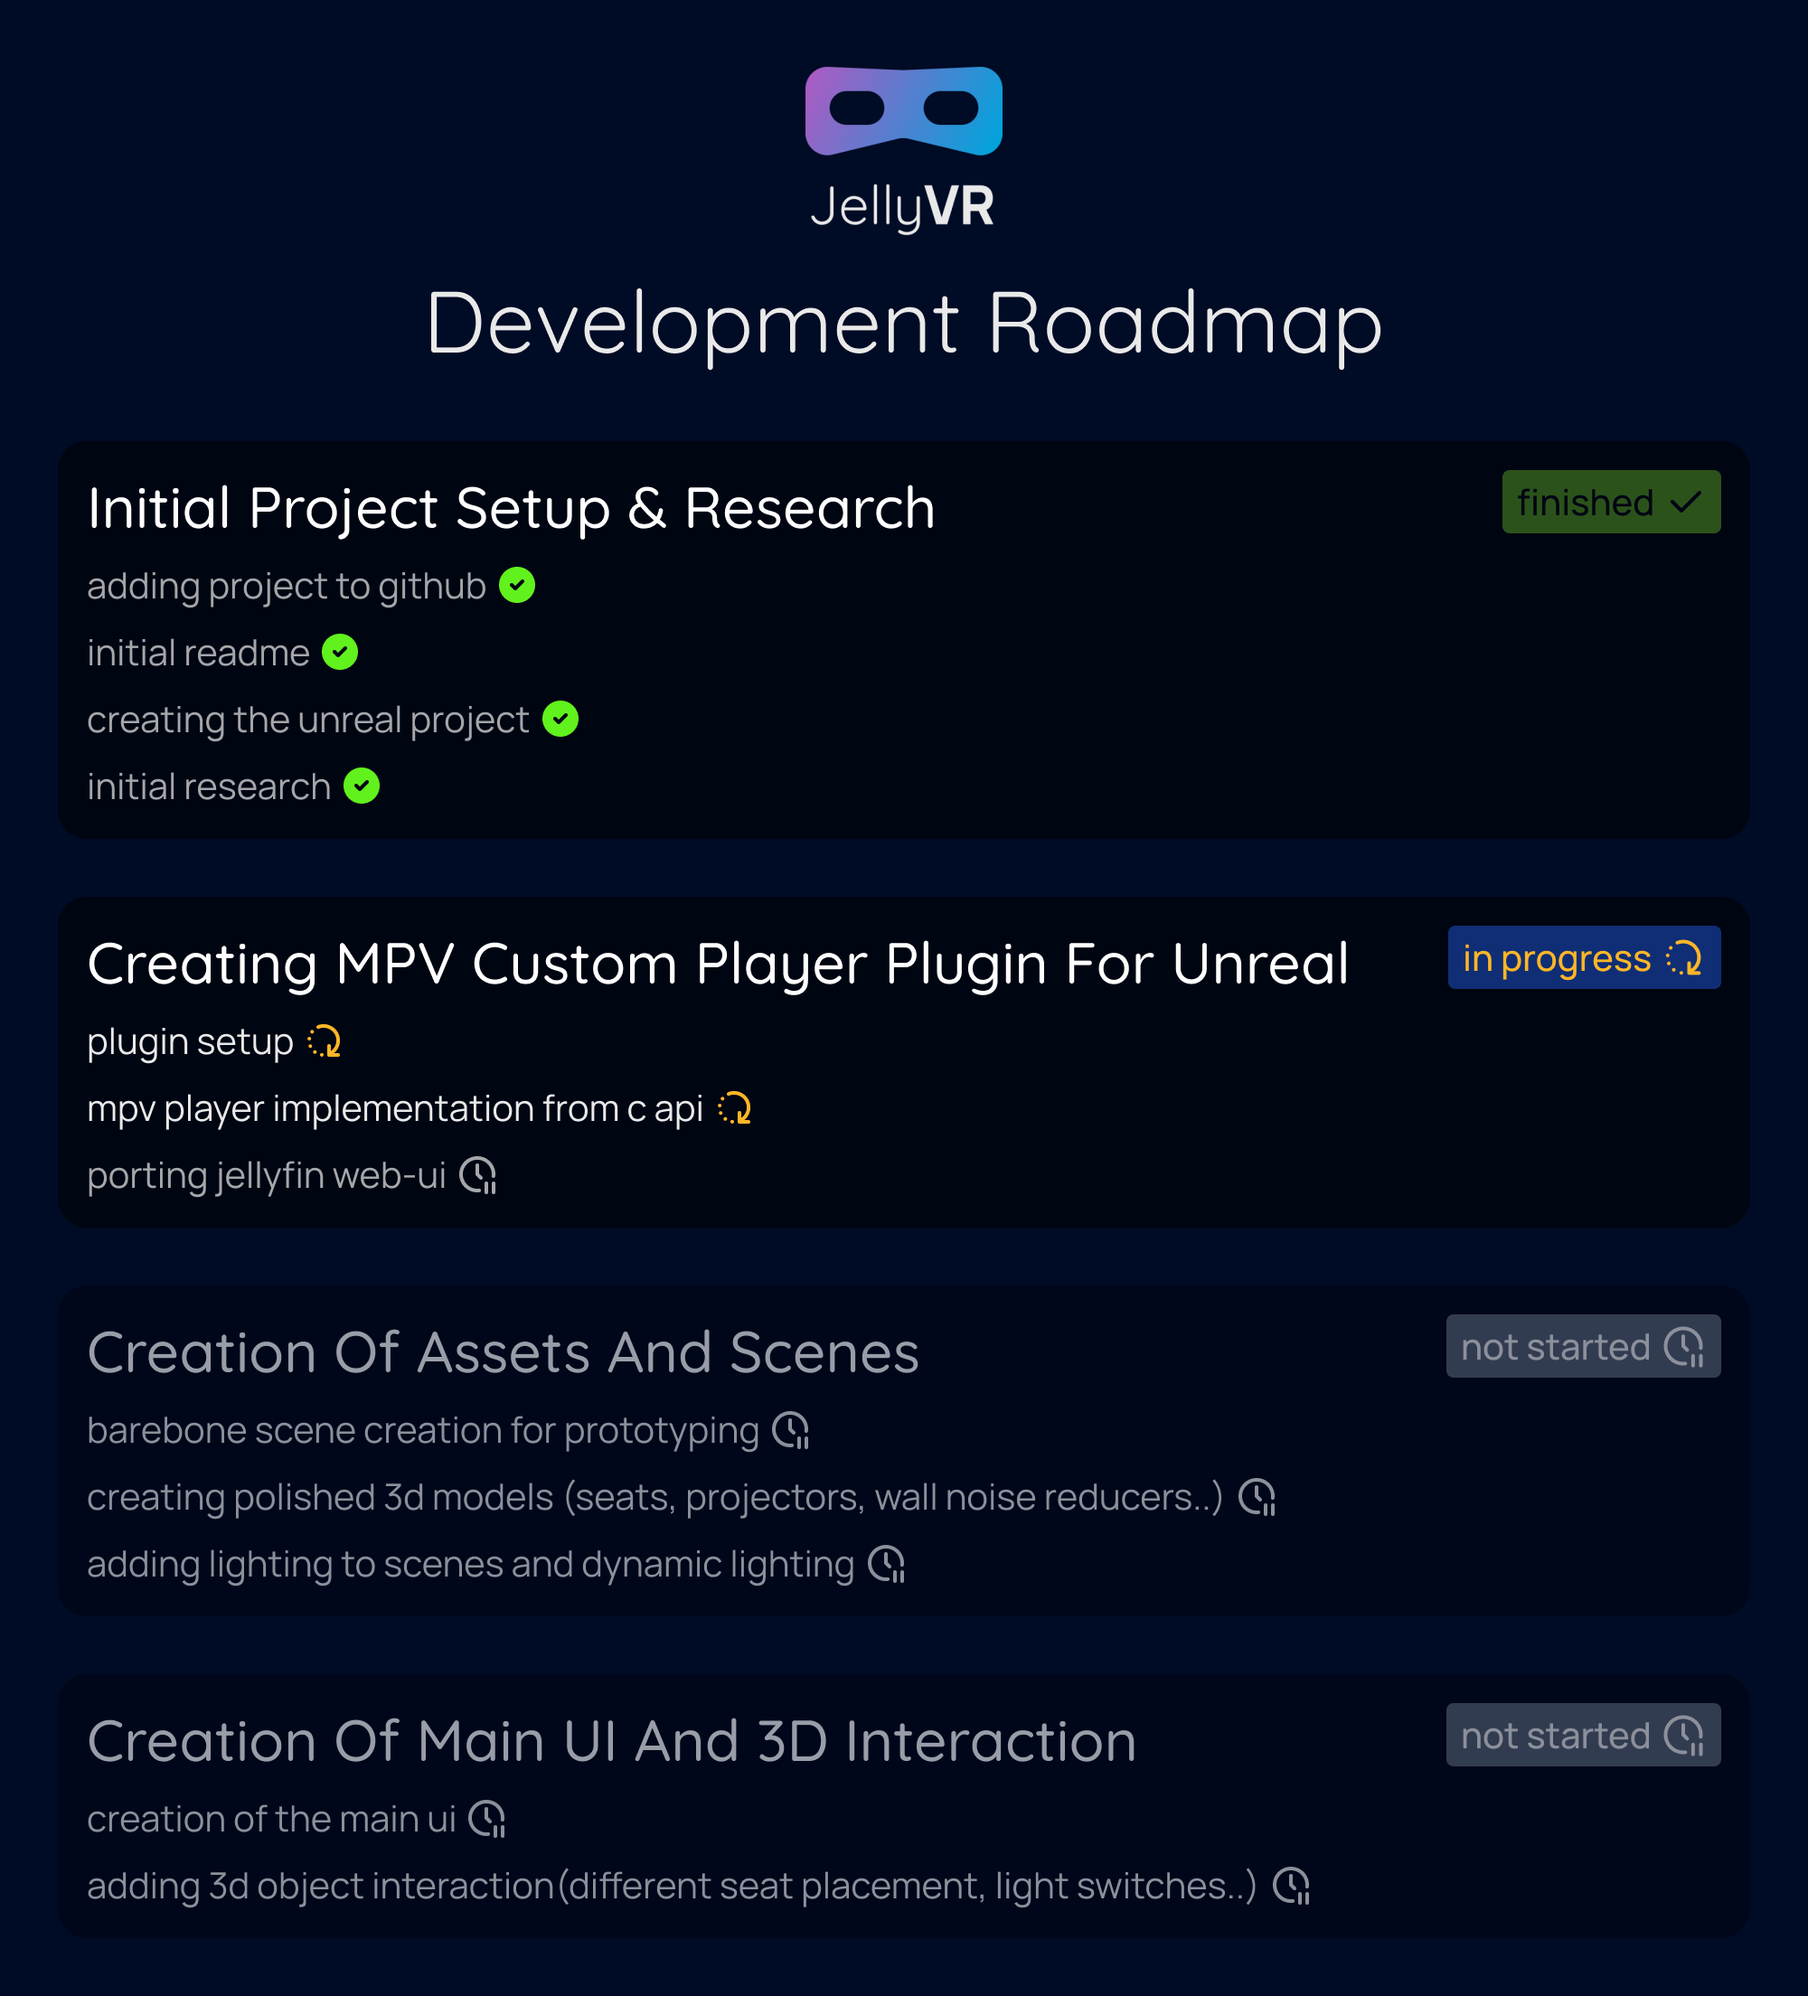
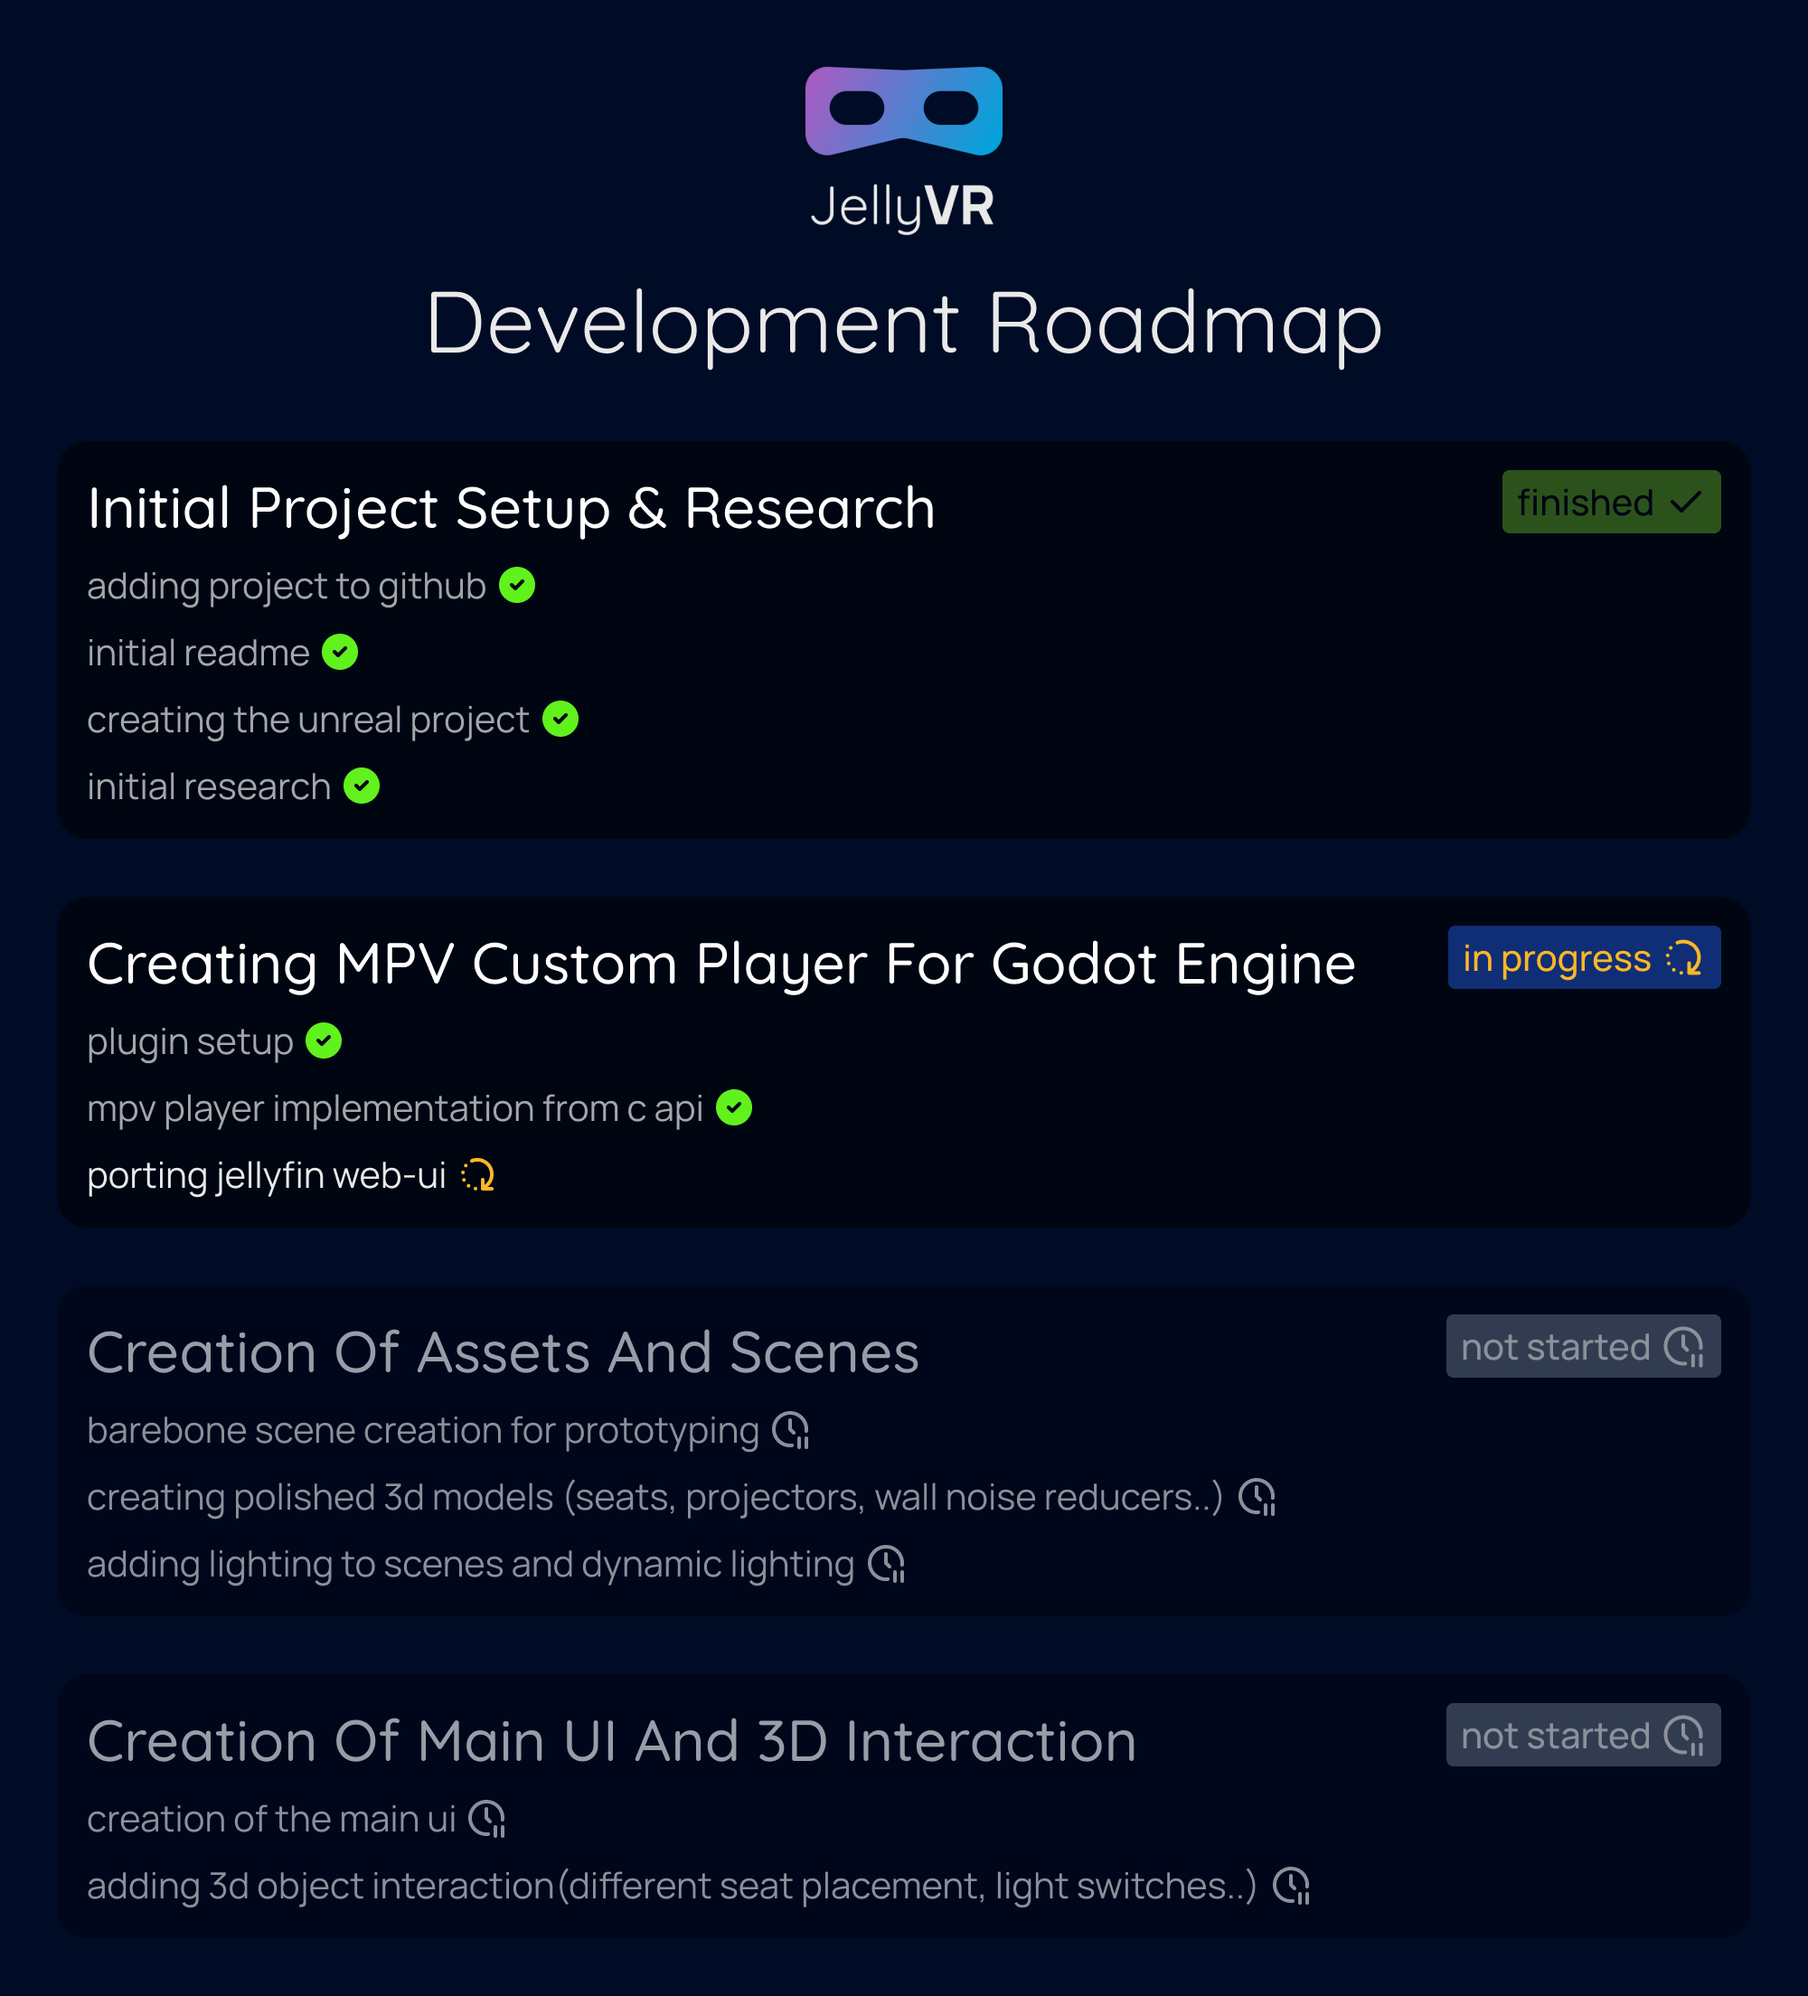
readme and roadmap push

Changed region(s): [[0.062, 0.5, 0.341, 0.5938], [0.496, 0.4688, 0.744, 0.5], [0.372, 0.5312, 0.434, 0.5625]]

diff --git a/README.md b/README.md
@@ -5,11 +5,13 @@
 ![Logo of JellyVR](JellyVR_Logo.png)
 ![Development Roadmap of JellyVR](JellyVR_Roadmap.png)
 
-![Logo of unreal engine](https://img.shields.io/badge/Unreal%20Engine-0E1128?logo=unrealengine)
+![Logo of Godot Engine](https://img.shields.io/badge/Godot%20Engine-478CBF?logo=godotengine&logoColor=white)
+![Logo of mpv](https://img.shields.io/badge/MPV-691F69?logo=mpv&logoColor=white)
+![Logo of linux](https://img.shields.io/badge/Linux-FCC624?logo=linux&logoColor=black)
 ![Logo of meta](https://img.shields.io/badge/Meta%20Quest-0467DF?logo=meta)
 
 ---
-JellyVR is your personal movie theater for Jellyfin, made in Unreal Engine 5 with C++.
+JellyVR is your personal movie theater for Jellyfin, made in Godot Engine 4.4 with C++.
 
 ---
 ## Development Update - 25/03/25
